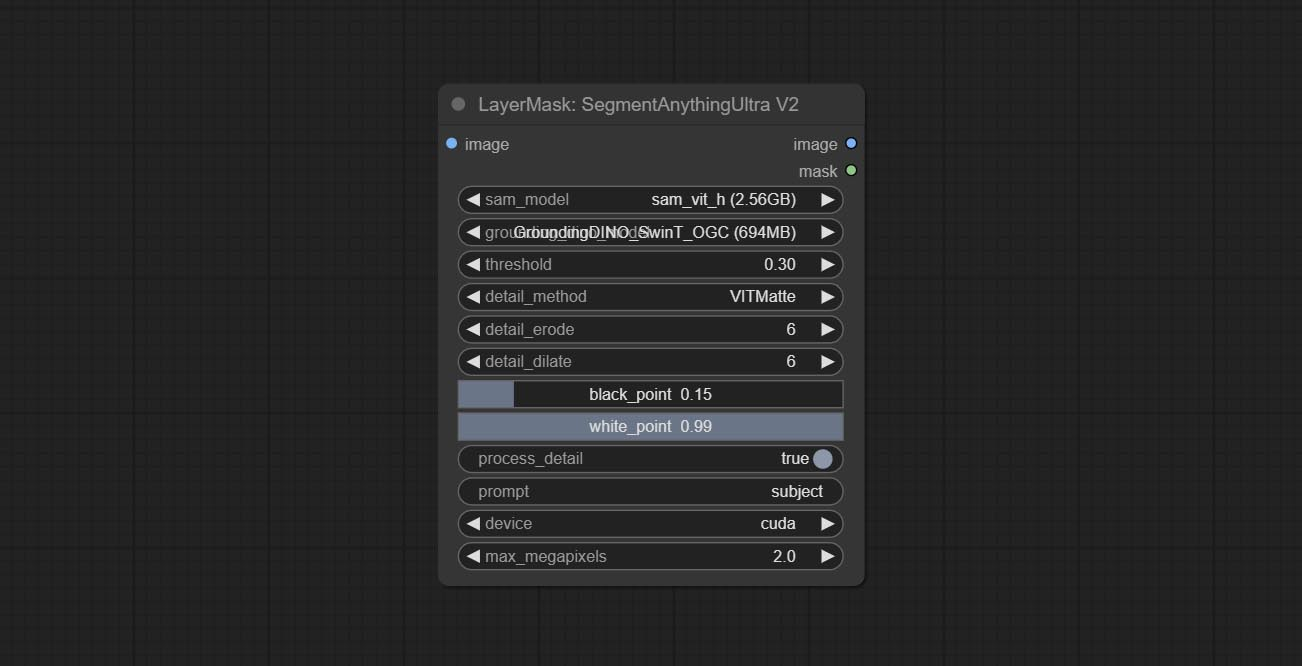
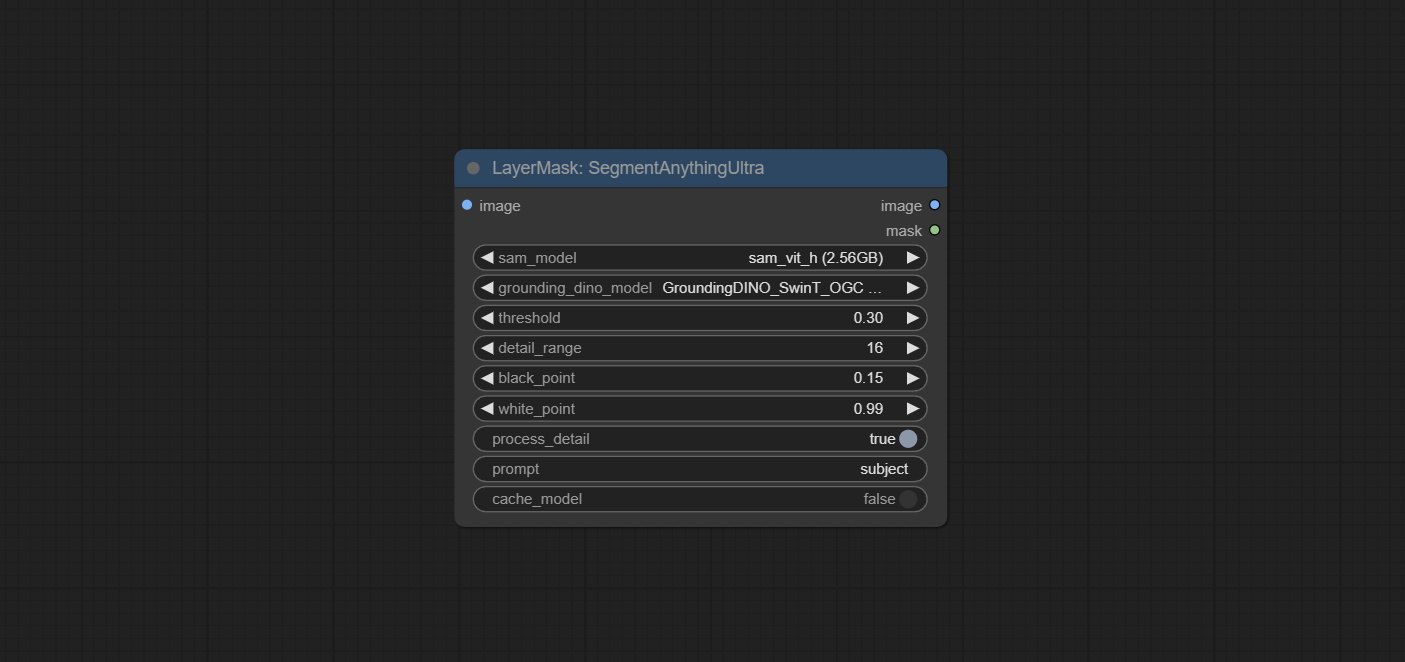
Commit JoyCaption2Split,LoadJoyCaption2Model nodes, SegmentAnythingUltra nodes add cache_modeloption

Changed region(s): [[0.3072, 0.1511, 0.6759, 0.8761]]

diff --git a/py/joycaption_alpha_2.py b/py/joycaption_alpha_2.py
@@ -524,13 +524,115 @@ class LS_JoyCaption2:
 
         return (ret_text,)
 
+class LS_LoadJoyCaption2Model:
+
+    CATEGORY = '😺dzNodes/LayerUtility'
+    FUNCTION = "load_joycaption2_model"
+    RETURN_TYPES = ("JoyCaption2_Model",)
+    RETURN_NAMES = ("joy2_model",)
+    OUTPUT_IS_LIST = (True,)
+
+    def __init__(self):
+        self.NODE_NAME = 'LoadJoyCaption2Model'
+
+    @classmethod
+    def INPUT_TYPES(self):
+        llm_model_list = ["Orenguteng/Llama-3.1-8B-Lexi-Uncensored-V2", "unsloth/Meta-Llama-3.1-8B-Instruct"]
+        device_list = ['cuda']
+        dtype_list = ['nf4','bf16']
+        vlm_lora_list = ['text_model', 'none']
+
+        return {
+            "required": {
+                "llm_model": (llm_model_list,),
+                "device": (device_list,),
+                "dtype": (dtype_list,),
+                "vlm_lora": (vlm_lora_list,),
+            },
+            "optional": {
+            }
+        }
+
+    def load_joycaption2_model(self, llm_model, device, dtype, vlm_lora):
+        llm_model_path = download_hg_model(llm_model, "LLM")
+        model = load_models(llm_model_path, dtype, vlm_lora, device)
+
+        return ([[model,device]],)
+
+class LS_JoyCaption2Split:
+
+    CATEGORY = '😺dzNodes/LayerUtility'
+    FUNCTION = "joycaption2split"
+    RETURN_TYPES = ("STRING",)
+    RETURN_NAMES = ("text",)
+    OUTPUT_IS_LIST = (True,)
+
+    def __init__(self):
+        self.NODE_NAME = 'JoyCaption2split'
+        self.previous_model = None
+
+    @classmethod
+    def INPUT_TYPES(self):
+        caption_type_list = ["Descriptive", "Descriptive (Informal)", "Training Prompt", "MidJourney",
+                   "Booru tag list", "Booru-like tag list", "Art Critic", "Product Listing",
+                   "Social Media Post"]
+        caption_length_list = ["any", "very short", "short", "medium-length", "long", "very long"] + [str(i) for i in range(20, 261, 10)]
+
+        return {
+            "required": {
+                "image": ("IMAGE",),
+                "joy2_model": ("JoyCaption2_Model",),
+                "caption_type": (caption_type_list,),
+                "caption_length": (caption_length_list,),
+                "user_prompt": ("STRING", {"default": "","multiline": False}),
+                "max_new_tokens": ("INT", {"default": 300, "min": 8, "max": 4096, "step": 1}),
+                "top_p": ("FLOAT", {"default": 0.9, "min": 0, "max": 1, "step": 0.01}),
+                "temperature": ("FLOAT", {"default": 0.6, "min": 0, "max": 1, "step": 0.01}),
+            },
+            "optional": {
+                "extra_options": ("JoyCaption2ExtraOption",),
+            }
+        }
+
+    def joycaption2split(self, image, joy2_model, caption_type, caption_length,
+                         user_prompt, max_new_tokens, top_p, temperature,
+                         extra_options=None):
+
+        model, device = joy2_model
+        # device = "cuda"
+        ret_text = []
+        extra = []
+        character_name = ""
+        if extra_options is not None:
+            extra, character_name = extra_options
+
+        for img in image:
+            img = tensor2pil(img.unsqueeze(0)).convert('RGB')
+            # log(f"{self.NODE_NAME}: caption_type={caption_type}, caption_length={caption_length}, extra={extra}, character_name={character_name}, user_prompt={user_prompt}")
+            caption = stream_chat([img], caption_type, caption_length,
+                                   extra, character_name, user_prompt,
+                                   max_new_tokens, top_p, temperature, 1,
+                                   model, device)
+            log(f"{self.NODE_NAME}: caption={caption[0]}")
+            ret_text.append(caption[0])
+
+        del joy2_model
+        del model, device
+        clear_memory()
+
+        return (ret_text,)
+
 
 NODE_CLASS_MAPPINGS = {
+    "LayerUtility: LoadJoyCaption2Model": LS_LoadJoyCaption2Model,
+    "LayerUtility: JoyCaption2Split": LS_JoyCaption2Split,
     "LayerUtility: JoyCaption2": LS_JoyCaption2,
     "LayerUtility: JoyCaption2ExtraOptions": LS_JoyCaptionExtraOptions
 }
 
 NODE_DISPLAY_NAME_MAPPINGS = {
+    "LayerUtility: LoadJoyCaption2Model": "LayerUtility: Load JoyCaption2 Model",
+    "LayerUtility: JoyCaption2Split": "LayerUtility: JoyCaption2 Split",
     "LayerUtility: JoyCaption2": "LayerUtility: JoyCaption2",
     "LayerUtility: JoyCaption2ExtraOptions": "LayerUtility: JoyCaption2 Extra Options"
 }

diff --git a/py/segment_anything_ultra_v2.py b/py/segment_anything_ultra_v2.py
@@ -3,13 +3,15 @@ from .segment_anything_func import *
 
 NODE_NAME = 'SegmentAnythingUltra V2'
 
-SAM_MODEL = None
-DINO_MODEL = None
-previous_sam_model = ""
-previous_dino_model = ""
+
+
 
 class SegmentAnythingUltraV2:
     def __init__(self):
+        self.SAM_MODEL = None
+        self.DINO_MODEL = None
+        self.previous_sam_model = ""
+        self.previous_dino_model = ""
         pass
 
     @classmethod
@@ -32,6 +34,7 @@ class SegmentAnythingUltraV2:
                 "prompt": ("STRING", {"default": "subject"}),
                 "device": (device_list,),
                 "max_megapixels": ("FLOAT", {"default": 2.0, "min": 1, "max": 999, "step": 0.1}),
+                "cache_model": ("BOOLEAN", {"default": False}),
             },
             "optional": {
             }
@@ -45,24 +48,23 @@ class SegmentAnythingUltraV2:
     def segment_anything_ultra_v2(self, image, sam_model, grounding_dino_model, threshold,
                                   detail_method, detail_erode, detail_dilate,
                                   black_point, white_point, process_detail, prompt,
-                                  device, max_megapixels
+                                  device, max_megapixels, cache_model
                                   ):
-        global SAM_MODEL
-        global DINO_MODEL
-        global previous_sam_model
-        global previous_dino_model
 
         if detail_method == 'VITMatte(local)':
             local_files_only = True
         else:
             local_files_only = False
 
-        if previous_sam_model != sam_model:
-            SAM_MODEL = load_sam_model(sam_model)
-            previous_sam_model = sam_model
-        if previous_dino_model != grounding_dino_model:
-            DINO_MODEL = load_groundingdino_model(grounding_dino_model)
-            previous_dino_model = grounding_dino_model
+        if self.previous_sam_model != sam_model or self.SAM_MODEL is None:
+            self.SAM_MODEL = load_sam_model(sam_model)
+            self.previous_sam_model = sam_model
+        if self.previous_dino_model != grounding_dino_model or self.DINO_MODEL is None:
+            self.DINO_MODEL = load_groundingdino_model(grounding_dino_model)
+            self.previous_dino_model = grounding_dino_model
+
+        SAM_MODEL = load_sam_model(sam_model)
+        DINO_MODEL = load_groundingdino_model(grounding_dino_model)
         ret_images = []
         ret_masks = []
 
@@ -70,10 +72,10 @@ class SegmentAnythingUltraV2:
             i = torch.unsqueeze(i, 0)
             i = pil2tensor(tensor2pil(i).convert('RGB'))
             _image = tensor2pil(i).convert('RGBA')
-            boxes = groundingdino_predict(DINO_MODEL, _image, prompt, threshold)
+            boxes = groundingdino_predict(self.DINO_MODEL, _image, prompt, threshold)
             if boxes.shape[0] == 0:
                 break
-            (_, _mask) = sam_segment(SAM_MODEL, _image, boxes)
+            (_, _mask) = sam_segment(self.SAM_MODEL, _image, boxes)
             _mask = _mask[0]
             detail_range = detail_erode + detail_dilate
             if process_detail:
@@ -96,6 +98,13 @@ class SegmentAnythingUltraV2:
             _, height, width, _ = image.size()
             empty_mask = torch.zeros((1, height, width), dtype=torch.uint8, device="cpu")
             return (empty_mask, empty_mask)
+
+        if not cache_model:
+            self.SAM_MODEL = None
+            self.DINO_MODEL = None
+            self.previous_sam_model = ""
+            self.previous_dino_model = ""
+            clear_memory()
 
         log(f"{NODE_NAME} Processed {len(ret_masks)} image(s).", message_type='finish')
         return (torch.cat(ret_images, dim=0), torch.cat(ret_masks, dim=0),)

diff --git a/py/segment_anything_ultra.py b/py/segment_anything_ultra.py
@@ -3,12 +3,12 @@ from .segment_anything_func import *
 
 NODE_NAME = 'SegmentAnythingUltra'
 
-SAM_MODEL = None
-DINO_MODEL = None
-
 class SegmentAnythingUltra:
     def __init__(self):
-        pass
+        self.SAM_MODEL = None
+        self.DINO_MODEL = None
+        self.previous_sam_model = ""
+        self.previous_dino_model = ""
 
     @classmethod
     def INPUT_TYPES(cls):
@@ -24,6 +24,7 @@ class SegmentAnythingUltra:
                 "white_point": ("FLOAT", {"default": 0.99, "min": 0.02, "max": 0.99, "step": 0.01}),
                 "process_detail": ("BOOLEAN", {"default": True}),
                 "prompt": ("STRING", {"default": "subject"}),
+                "cache_model": ("BOOLEAN", {"default": False}),
             },
             "optional": {
             }
@@ -36,11 +37,16 @@ class SegmentAnythingUltra:
 
     def segment_anything_ultra(self, image, sam_model, grounding_dino_model, threshold,
                                detail_range, black_point, white_point, process_detail,
-                               prompt, ):
-        global SAM_MODEL
-        global DINO_MODEL
-        if SAM_MODEL is None: SAM_MODEL = load_sam_model(sam_model)
-        if DINO_MODEL is None: DINO_MODEL = load_groundingdino_model(grounding_dino_model)
+                               prompt, cache_model):
+
+        if self.previous_sam_model != sam_model or self.SAM_MODEL is None:
+            self.SAM_MODEL = load_sam_model(sam_model)
+            self.previous_sam_model = sam_model
+        if self.previous_dino_model != grounding_dino_model or self.DINO_MODEL is None:
+            self.DINO_MODEL = load_groundingdino_model(grounding_dino_model)
+            self.previous_dino_model = grounding_dino_model
+
+
         ret_images = []
         ret_masks = []
 
@@ -48,10 +54,10 @@ class SegmentAnythingUltra:
             i = torch.unsqueeze(i, 0)
             i = pil2tensor(tensor2pil(i).convert('RGB'))
             item = tensor2pil(i).convert('RGBA')
-            boxes = groundingdino_predict(DINO_MODEL, item, prompt, threshold)
+            boxes = groundingdino_predict(self.DINO_MODEL, item, prompt, threshold)
             if boxes.shape[0] == 0:
                 break
-            (_, _mask) = sam_segment(SAM_MODEL, item, boxes)
+            (_, _mask) = sam_segment(self.SAM_MODEL, item, boxes)
             _mask = _mask[0]
             if process_detail:
                 _mask = tensor2pil(mask_edge_detail(i, _mask, detail_range, black_point, white_point))
@@ -65,6 +71,13 @@ class SegmentAnythingUltra:
             _, height, width, _ = image.size()
             empty_mask = torch.zeros((1, height, width), dtype=torch.uint8, device="cpu")
             return (empty_mask, empty_mask)
+
+        if not cache_model:
+            self.SAM_MODEL = None
+            self.DINO_MODEL = None
+            self.previous_sam_model = ""
+            self.previous_dino_model = ""
+            clear_memory()
 
         log(f"{NODE_NAME} Processed {len(ret_masks)} image(s).", message_type='finish')
         return (torch.cat(ret_images, dim=0), torch.cat(ret_masks, dim=0),)

diff --git a/README_CN.MD b/README_CN.MD
@@ -127,6 +127,8 @@ If this call came from a _pb2.py file, your generated code is out of date and mu
 ## 更新说明
 <font size="4">**如果本插件更新后出现依赖包错误，请双击运行插件目录下的```install_requirements.bat```(官方便携包)，或 ```install_requirements_aki.bat```(秋叶整合包) 重新安装依赖包。
 
+* 添加 [JoyCaption2Split](#JoyCaption2Split) 和 [LoadJoyCaption2Model](#LoadJoyCaption2Model) 节点，在多个JoyCaption2节点时共用模型提高效率。
+* [SegmentAnythingUltra](#SegmentAnythingUltra) 和 [SegmentAnythingUltraV2](#SegmentAnythingUltraV2) 增加 ```cache_model``` 参数，便于灵活管理显存。
 * 鉴于[LlamaVision](#LlamaVision)节点对 ```transformers``` 的要求版本较高而影响某些旧版第三方插件的加载，LayerStyle 插件已将默认要求降低到4.43.2， 如有运行LlamaVision的需求请自行升级至4.45.0以上。
 * 添加 [JoyCaption2](#JoyCaption2) 和 [JoyCaption2ExtraOptions](#JoyCaption2ExtraOptions) 节点，使用JoyCaption-alpha-two模型生成提示词。
 请从 [百度网盘](https://pan.baidu.com/s/1dOjbUEacUOhzFitAQ3uIeQ?pwd=4ypv) 以及 [百度网盘](https://pan.baidu.com/s/1mH1SuW45Dy6Wga7aws5siQ?pwd=w6h5) ， 
@@ -848,6 +850,35 @@ ImageScaleByAspectRatio的V2升级版
 * top-p: LLM的top_p参数。
 * temperature: LLM的temperature参数。
 * cache_model: 是否缓存模型。
+
+### <a id="table1">JoyCaption2Split</a>
+JoyCaption2 的分离式节点，将模型加载与推理分离，使用多个JoyCaption2节点时可共用模型提高效率。
+
+节点选项说明:   
+![image](image/joycaption2_split_node.jpg)    
+
+* image: 图片输入。
+* joy2_model: JoyCaption模型输入。
+* extra_options: extra_options参数输入。
+* caption_type: caption类型选项, 包括"Descriptive"(正式语气描述), "Descriptive (Informal)"(非正式语气描述), "Training Prompt"(SD训练描述), "MidJourney"(MJ风格描述), "Booru tag list"(标签列表), "Booru-like tag list"(类标签列表), "Art Critic"(艺术评论), "Product Listing"(产品列表), "Social Media Post"(社交媒体风格)。
+* caption_length: 描述长度。
+* user_prompt: LLM模型的用户提示词。如果这里有内容将覆盖caption_type和extra_options的所有设置。
+* max_new_tokens: LLM的max_new_tokens参数。
+* do_sample: LLM的do_sample参数。
+* top-p: LLM的top_p参数。
+* temperature: LLM的temperature参数。
+
+### <a id="table1">LoadJoyCaption2Model</a>
+JoyCaption2 的模型加载节点，与JoyCaption2Split配合使用。
+
+节点选项说明:   
+![image](image/load_joycaption2_model_node.jpg)    
+
+* llm_model: 目前有 Orenguteng/Llama-3.1-8B-Lexi-Uncensored-V2 和 unsloth/Meta-Llama-3.1-8B-Instruct 两种LLM模型可选择。
+* device: 模型加载设备。目前仅支持cuda。
+* dtype: 模型加载精度，有nf4 和 bf16 两个选项。
+* vlm_lora: 是否加载text_model。
+
 
 ### <a id="table1">JoyCaption2ExtraOptions</a>
 JoyCaption2的extra_options参数节点。 
@@ -1843,6 +1874,7 @@ mask为可选输入项，如果这里输入遮罩，将作用于输出结果。
 * white_point: 边缘白色采样阈值。
 * process_detail: 此处设为False将跳过边缘处理以节省运行时间。
 * prompt: SAM的prompt输入。
+* cache_model: 是否缓存模型。
 
 ### <a id="table1">SegmentAnythingUltraV2</a>
 SegmentAnythingUltra的V2升级版，增加了VITMatte边缘处理方法。

diff --git a/README.MD b/README.MD
@@ -150,6 +150,9 @@ Please try downgrading the ```protobuf``` dependency package to 3.20.3, or set e
 
 <font size="4">**If the dependency package error after updating,  please double clicking ```repair_dependency.bat``` (for Official ComfyUI Protable) or  ```repair_dependency_aki.bat``` (for ComfyUI-aki-v1.x) in the plugin folder to reinstall the dependency packages. </font><br />    
 
+* Commit [JoyCaption2Split](#JoyCaption2Split) and [LoadJoyCaption2Model](#LoadJoyCaption2Model) nodes, Sharing the model across multiple JoyCaption2 nodes improves efficiency.
+* [SegmentAnythingUltra](#SegmentAnythingUltra) and [SegmentAnythingUltraV2](#SegmentAnythingUltraV2) add the  ```cache_model``` option, Easy to flexibly manage VRAM usage.
+
 * Due to the high version requirements of the [LlamaVision](#LlamaVision) node for ```transformers```, which affects the loading of some older third-party plugins, so the LayerStyle plugin has lowered the default requirement to 4.43.2. If you need to run LlamaVision, please upgrade to 4.45.0 or above on your own. 
 
 * Commit [JoyCaption2](#JoyCaption2) and [JoyCaption2ExtraOptions](#JoyCaption2ExtraOptions) nodes. New dependency packages need to be installed.
@@ -951,6 +954,34 @@ Node Options:
 * top-p: The top_p parameter of LLM.
 * temperature: The temperature parameter of LLM.
 * cache_model: Whether to cache the model.
+
+### <a id="table1">JoyCaption2Split</a>
+The node of JoyCaption2 separate model loading and inference, and when multiple JoyCaption2 nodes are used, the model can be shared to improve efficiency.
+
+Node Options:   
+![image](image/joycaption2_split_node.jpg)    
+
+* image: Image input.。
+* joy2_model: The JoyCaption model input.
+* extra_options: Input the extra_options.
+* caption_type: Caption type options, including: "Descriptive", "Descriptive (Informal)", "Training Prompt", "MidJourney", "Booru tag list", "Booru-like tag list", "Art Critic", "Product Listing", "Social Media Post".
+* caption_length: The length of caption.
+* user_prompt: User prompt words for LLM model. If there is content here, it will overwrite all the settings for caption_type and extra_options.
+* max_new_tokens: The max_new_token parameter of LLM.
+* do_sample: The do_sample parameter of LLM.
+* top-p: The top_p parameter of LLM.
+* temperature: The temperature parameter of LLM.
+
+### <a id="table1">LoadJoyCaption2Model</a>
+JoyCaption2's model loading node, used in conjunction with JoyCaption2Split.
+
+Node Options:   
+![image](image/load_joycaption2_model_node.jpg)    
+
+* llm_model: There are two LLM models to choose, Orenguteng/Llama-3.1-8B-Lexi-Uncensored-V2 and unsloth/Meta-Llama-3.1-8B-Instruct.
+* device: Model loading device. Currently, only CUDA is supported.
+* dtype: Model precision, nf4 and bf16.
+* vlm_lora: Whether to load text_madel.
 
 ### <a id="table1">JoyCaption2ExtraOptions</a>
 The extra_options parameter node of JoyCaption2.
@@ -2065,6 +2096,7 @@ Node options:
 * white_point: Edge white sampling threshold.
 * process_detail: Set to false here will skip edge processing to save runtime.
 * prompt: Input for SAM's prompt.
+* cache_model: Set whether to cache the model.
 
 ### <a id="table1">SegmentAnythingUltraV2</a>
 
